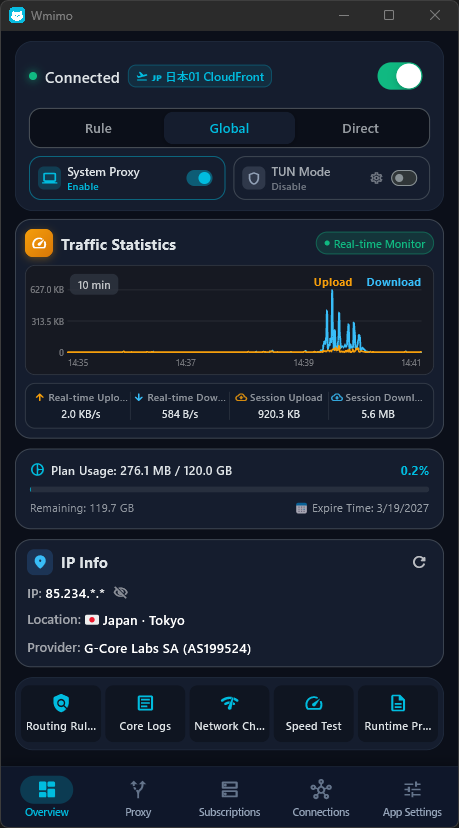
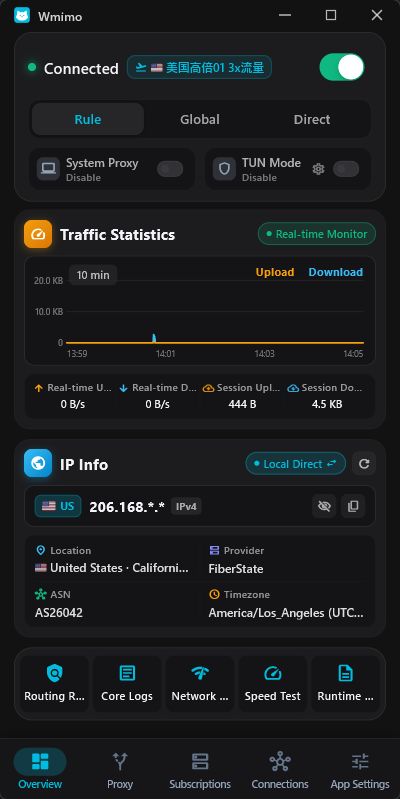
docs(readme): update preview screenshots with desktop sidebar and new light/dark UI

Changed region(s): [[0.0, 0.0, 1.0, 1.0], [0.0, 0.9011, 0.03, 0.9312]]

diff --git a/README.ru.md b/README.ru.md
@@ -33,6 +33,9 @@
 
   <br/>
   <p align="center">
+    <img src="docs/preview_desktop.png" alt="Wmimo Десктопный интерфейс" width="756" />
+  </p>
+  <p align="center">
     <img src="docs/preview_light.png" alt="Wmimo Светлая тема" width="370" />
     &nbsp;&nbsp;
     <img src="docs/preview_dark.png" alt="Wmimo Темная тема" width="370" />

diff --git a/README.ar.md b/README.ar.md
@@ -33,6 +33,9 @@
 
   <br/>
   <p align="center">
+    <img src="docs/preview_desktop.png" alt="Wmimo واجهة سطح المكتب" width="756" />
+  </p>
+  <p align="center">
     <img src="docs/preview_light.png" alt="Wmimo المظهر الفاتح" width="370" />
     &nbsp;&nbsp;
     <img src="docs/preview_dark.png" alt="Wmimo المظهر الداكن" width="370" />

diff --git a/README.ja.md b/README.ja.md
@@ -33,6 +33,9 @@
 
   <br/>
   <p align="center">
+    <img src="docs/preview_desktop.png" alt="Wmimo デスクトップレイアウト" width="756" />
+  </p>
+  <p align="center">
     <img src="docs/preview_light.png" alt="Wmimo ライトテーマ" width="370" />
     &nbsp;&nbsp;
     <img src="docs/preview_dark.png" alt="Wmimo ダークテーマ" width="370" />

diff --git a/README.ko.md b/README.ko.md
@@ -33,6 +33,9 @@
 
   <br/>
   <p align="center">
+    <img src="docs/preview_desktop.png" alt="Wmimo 데스크톱 레이아웃" width="756" />
+  </p>
+  <p align="center">
     <img src="docs/preview_light.png" alt="Wmimo 라이트 모드" width="370" />
     &nbsp;&nbsp;
     <img src="docs/preview_dark.png" alt="Wmimo 다크 모드" width="370" />

diff --git a/README.fa.md b/README.fa.md
@@ -33,6 +33,9 @@
 
   <br/>
   <p align="center">
+    <img src="docs/preview_desktop.png" alt="Wmimo نمای دسکتاپ" width="756" />
+  </p>
+  <p align="center">
     <img src="docs/preview_light.png" alt="Wmimo تم روشن" width="370" />
     &nbsp;&nbsp;
     <img src="docs/preview_dark.png" alt="Wmimo تم تاریک" width="370" />

diff --git a/README.zh-TW.md b/README.zh-TW.md
@@ -34,6 +34,9 @@
 
   <br/>
   <p align="center">
+    <img src="docs/preview_desktop.png" alt="Wmimo 桌面端寬螢幕視圖" width="756" />
+  </p>
+  <p align="center">
     <img src="docs/preview_light.png" alt="Wmimo 淺色主題" width="370" />
     &nbsp;&nbsp;
     <img src="docs/preview_dark.png" alt="Wmimo 深色主題" width="370" />

diff --git a/README.zh-CN.md b/README.zh-CN.md
@@ -34,6 +34,9 @@
 
   <br/>
   <p align="center">
+    <img src="docs/preview_desktop.png" alt="Wmimo 桌面端宽屏视图" width="756" />
+  </p>
+  <p align="center">
     <img src="docs/preview_light.png" alt="Wmimo 浅色主题" width="370" />
     &nbsp;&nbsp;
     <img src="docs/preview_dark.png" alt="Wmimo 深色主题" width="370" />

diff --git a/README.es.md b/README.es.md
@@ -33,6 +33,9 @@
 
   <br/>
   <p align="center">
+    <img src="docs/preview_desktop.png" alt="Wmimo Diseño de Escritorio" width="756" />
+  </p>
+  <p align="center">
     <img src="docs/preview_light.png" alt="Wmimo Tema Claro" width="370" />
     &nbsp;&nbsp;
     <img src="docs/preview_dark.png" alt="Wmimo Tema Oscuro" width="370" />

diff --git a/README.md b/README.md
@@ -34,6 +34,9 @@
 
   <br/>
   <p align="center">
+    <img src="docs/preview_desktop.png" alt="Wmimo Desktop Layout" width="756" />
+  </p>
+  <p align="center">
     <img src="docs/preview_light.png" alt="Wmimo Light Theme" width="370" />
     &nbsp;&nbsp;
     <img src="docs/preview_dark.png" alt="Wmimo Dark Theme" width="370" />
